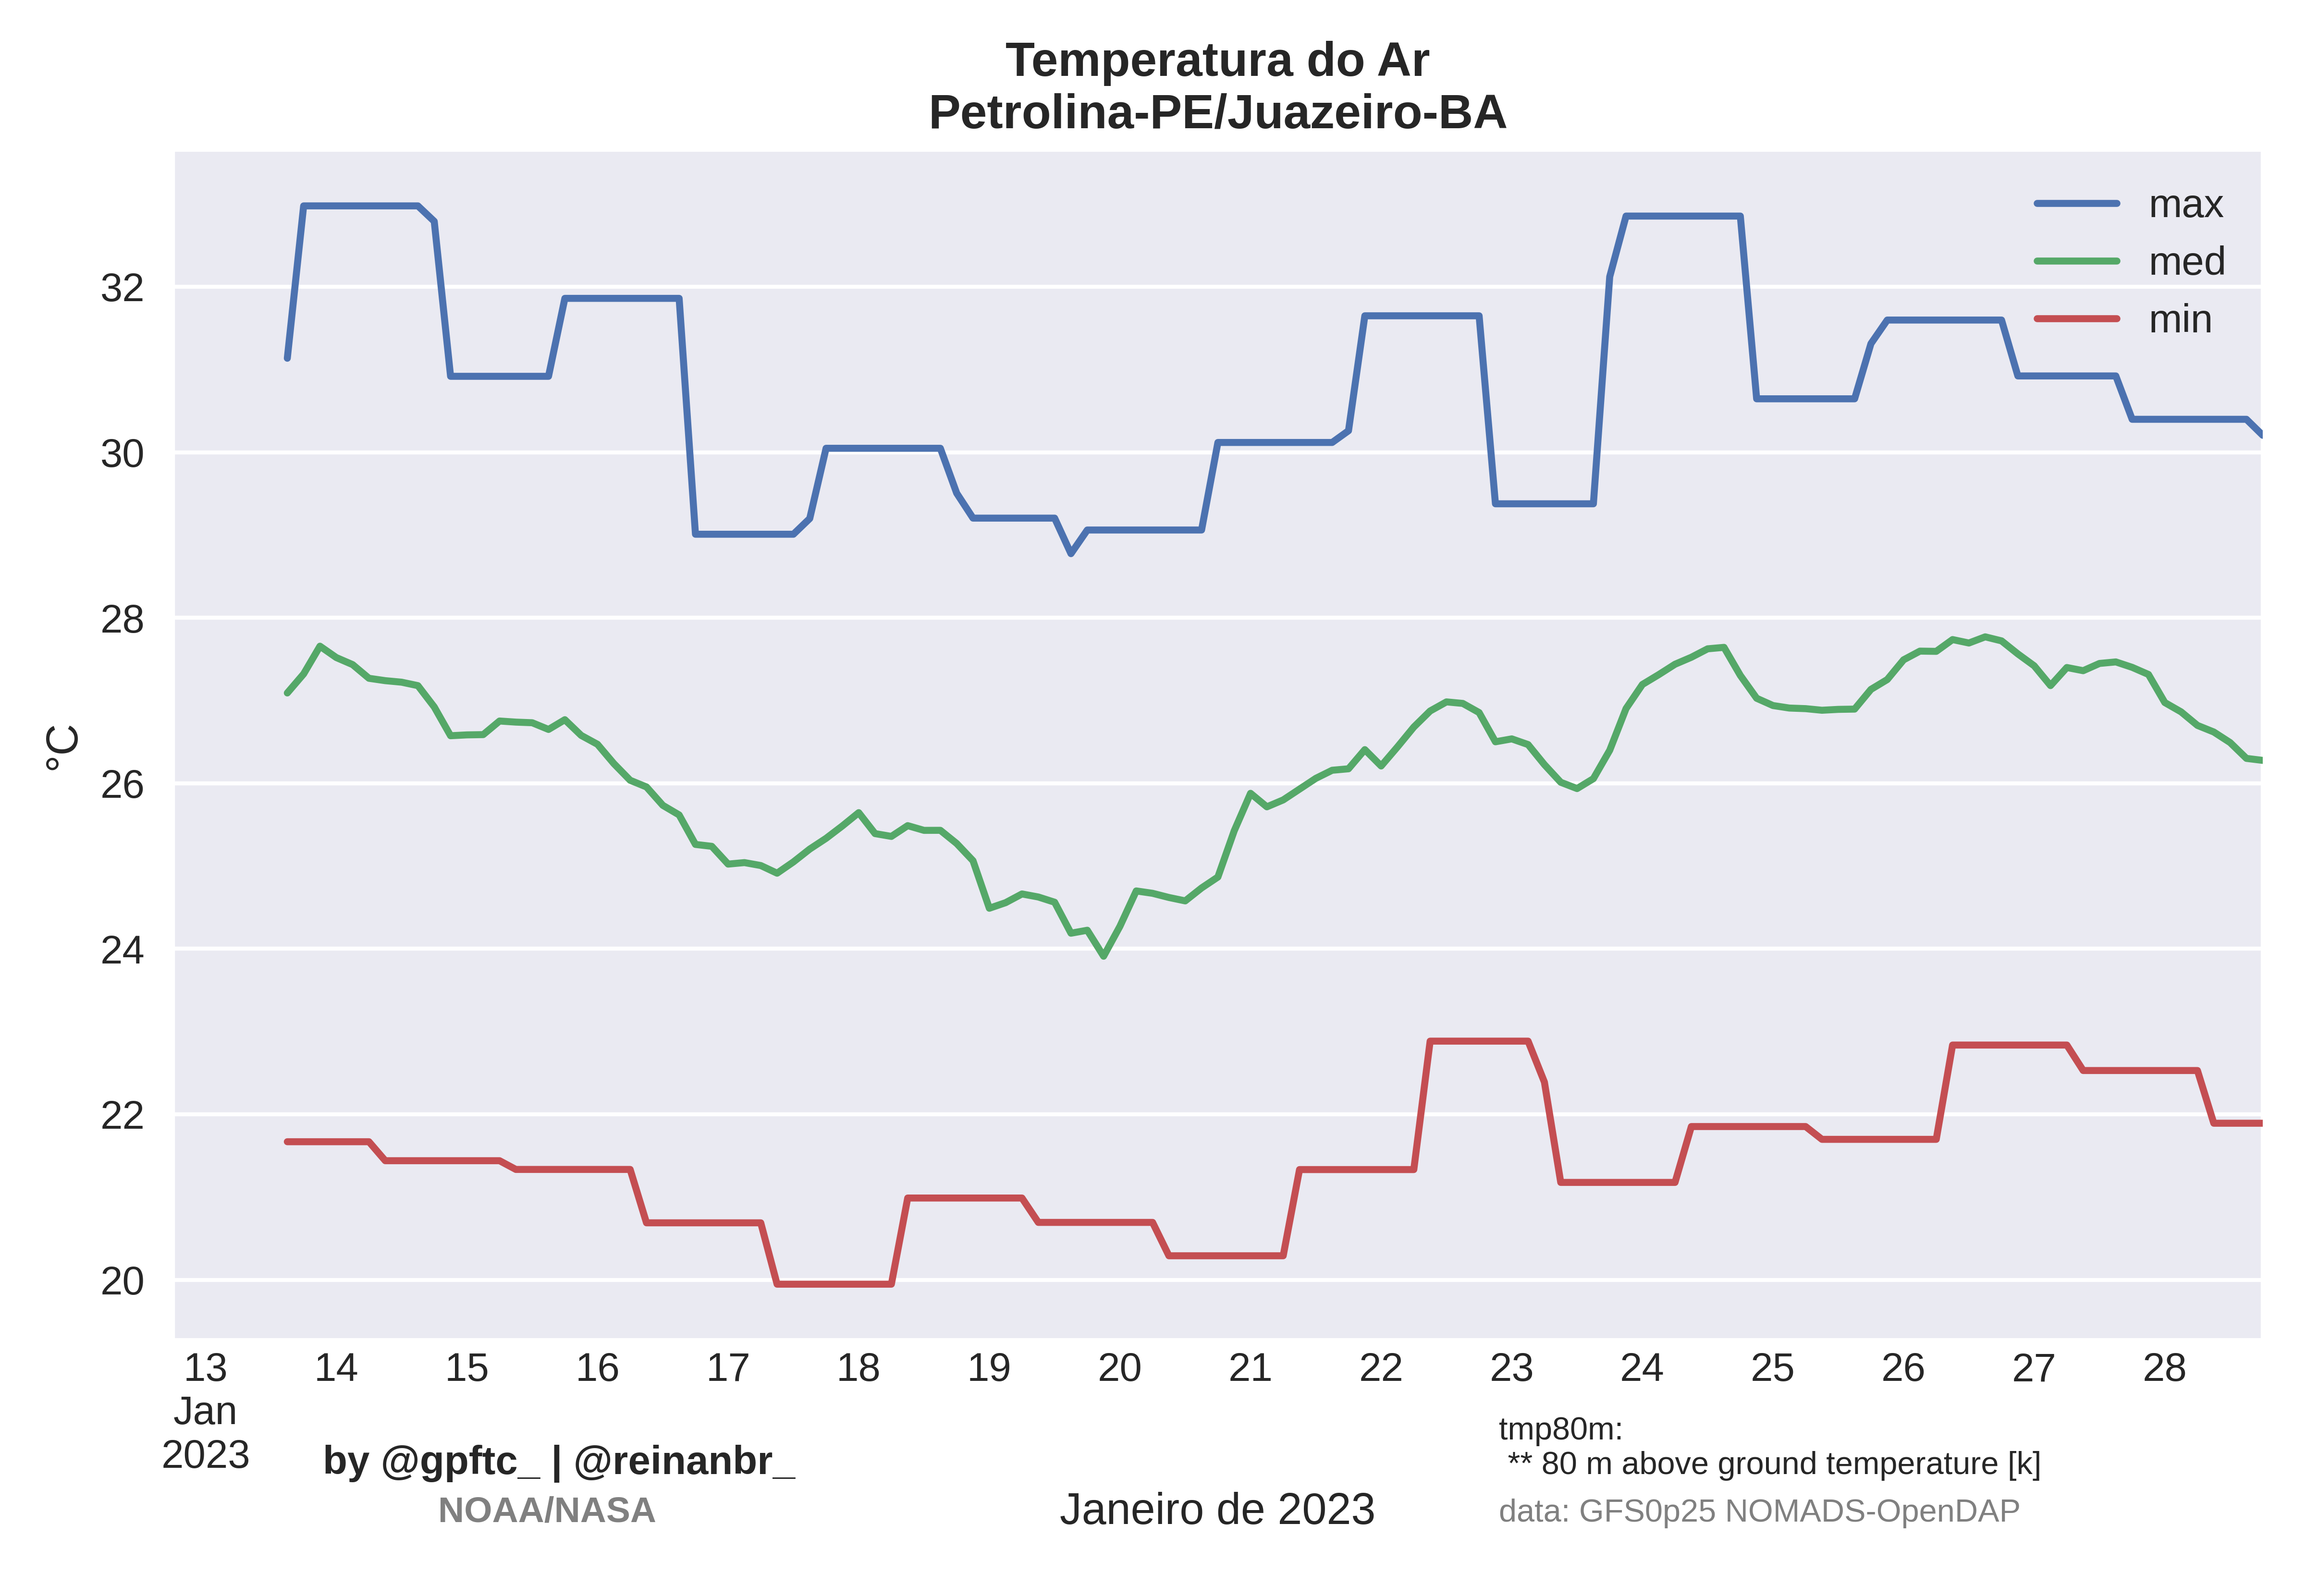
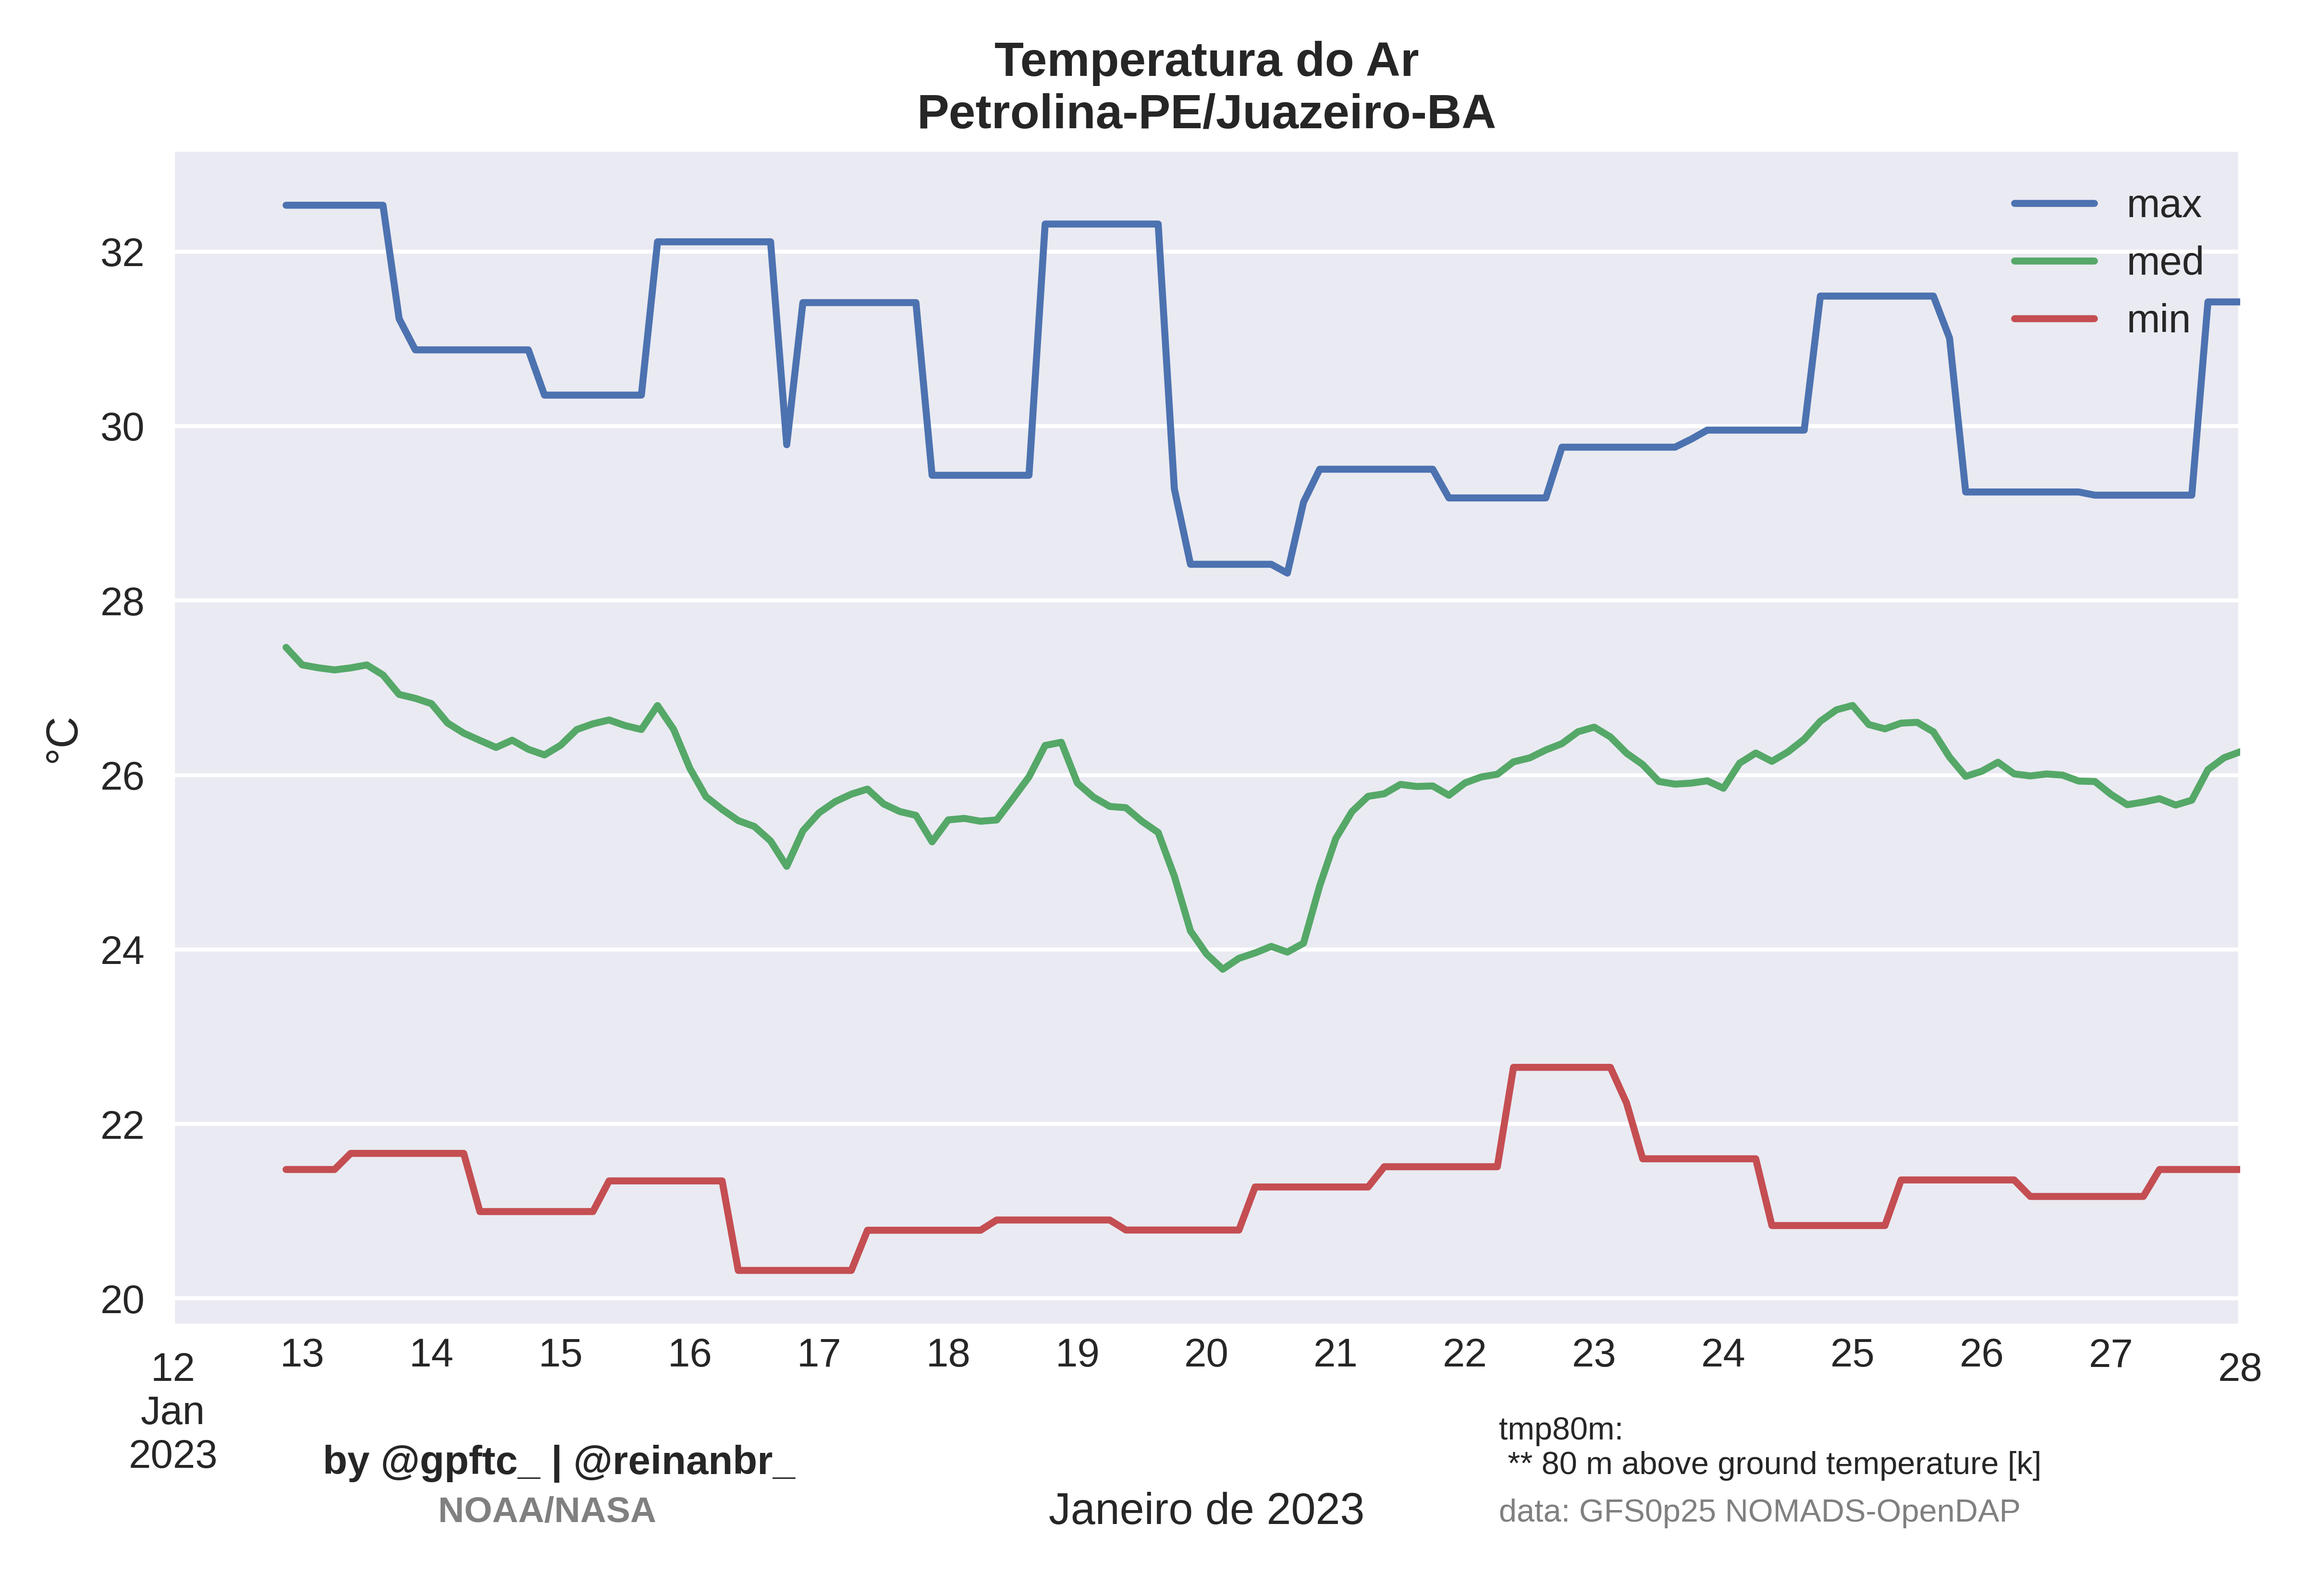
0.0.4.9 -> add class plot | font noaa | date_set

diff --git a/noawclg/main.py b/noawclg/main.py
@@ -42,19 +42,27 @@ from datetime import datetime
 # from bs4 import beautifulsoup as soup
 
 import matplotlib.pyplot as plt
+
+
+
 plt.style.use('seaborn')
 from geopy.geocoders import Nominatim
 geolocator = Nominatim(user_agent='Mozilla/5.0 (Linux; U; Android 4.4.2; zh-cn; GT-I9500 Build/KOT49H) AppleWebKit/537.36(KHTML, like Gecko)Version/4.0 MQQBrowser/5.0 QQ-URL-Manager Mobile Safari/537.36')
 
 
 
+
+date_base = None
+def set_date(date:str):
+    global date_base
+    date_base = date #'08/01/2023'
+print(xr.__version__)
+
+
+
 __date_now = datetime.now
 date_base_param = __date_now().strftime('%d/%m/%Y')
 
-
-global date_base
-date_base = None #'08/01/2023'
-print(xr.__version__)
 
 
 
@@ -72,9 +80,14 @@ class get_noaa_data:
                     input a date in mode day/moth/year
                     ex: 08/01/2022
         '''
-        
-        if not date:
+        if date_base:
+            print('i fun')
+            date=date_base
+
+        elif not date:
             date=date_base_param
+        
+
         self.date = date
         date = datetime.strptime(date,'%d/%m/%Y')
         date = date.strftime('%Y%m%d')

diff --git a/test_point.py b/test_point.py
@@ -6,8 +6,9 @@ import matplotlib.pyplot as plt
 #reinan voltou, porrrrraaaaaaaaa
 
 date_base = '12/01/2023'
-hour = '18'
-data_noaa = gnd(date=date_base,hour=hour)#,url_data='https://nomads.ncep.noaa.gov/dods/gfs_1p00/gfs20220108/gfs_1p00_00z')
+
+main.set_date(date_base)
+data_noaa = gnd()#,url_data='https://nomads.ncep.noaa.gov/dods/gfs_1p00/gfs20220108/gfs_1p00_00z')
 
 place = 'juazeiro BA'
 

diff --git a/README.md b/README.md
@@ -83,14 +83,17 @@ you can see the all keys in <a href='https://github.com/reinanbr/noawclg/blob/ma
 
 ### example plot wind
 ```py
+import noawclg.main as main
 from noawclg.main import get_noaa_data as gnd
 from noawclg.plot import plot_data_from_place as pdp
 import matplotlib.pyplot as plt
-#
+#plt.style.use('dark_background')
+#reinan voltou, porrrrraaaaaaaaa
 
 date_base = '12/01/2023'
-hour = '18'
-data_noaa = gnd(date=date_base,hour=hour)#,url_data='https://nomads.ncep.noaa.gov/dods/gfs_1p00/gfs20220108/gfs_1p00_00z')
+
+main.set_date(date_base)
+data_noaa = gnd()#,url_data='https://nomads.ncep.noaa.gov/dods/gfs_1p00/gfs20220108/gfs_1p00_00z')
 
 place = 'juazeiro BA'
 
@@ -110,6 +113,11 @@ jua_pet.render()
 #plt.show()
 
 
+
 ```
 result:
-<img src='plot_wind100m.png'>
+<img src='https://raw.githubusercontent.com/reinanbr/noawclg/main/plot_wind100m.png'/>
+
+
+
+<!-- the truest Reinan 13/01/23 01:58 :siga a rotina criada -->
